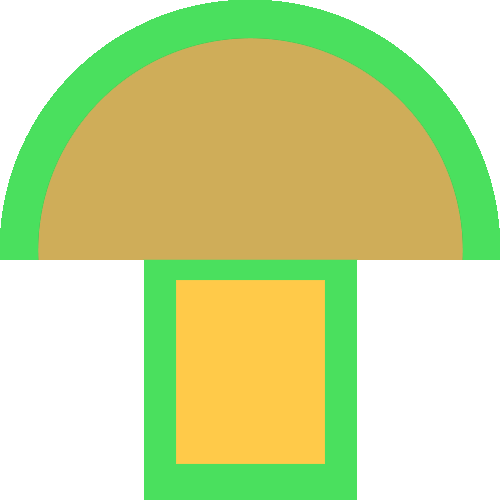
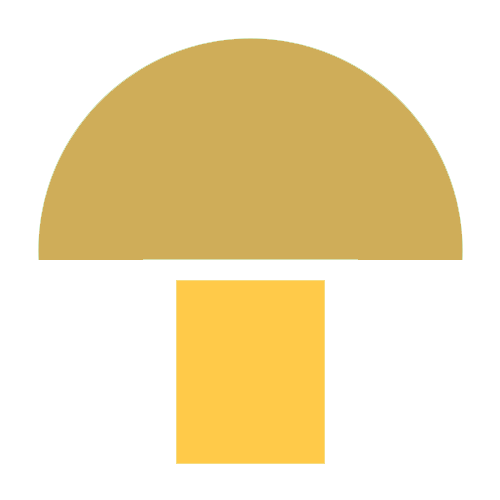
backup in case i cant get collisions to work

Changed region(s): [[0.0, 0.0, 1.0, 0.54], [0.27, 0.51, 0.72, 1.0]]

diff --git a/src/client/render.js b/src/client/render.js
@@ -247,7 +247,7 @@ function renderPlayer(me, player) {
 
   else if(player.tier <14){
     context.drawImage(
-      getAsset('devil croc.png'),
+      getAsset('slime.png'),
       -PLAYER_RADIUS * TIER_14_SIZE,
       -PLAYER_RADIUS * TIER_14_SIZE,
       PLAYER_RADIUS * 2 * TIER_14_SIZE,
@@ -356,6 +356,31 @@ function renderXPBar(me, player) {
 
 function renderBerry(me, berry) {
   const { x, y } = berry;
+
+  // Drawing the outline
+  var dArr = [-1,-1, 0,-1, 1,-1, -1,0, 1,0, -1,1, 0,1, 1,1], // offset array
+      s = 2,  // thickness scale
+      i = 0,  // iterator
+      finalX = x,  // final position
+      finalY = y;
+
+  for(; i < dArr.length; i += 2){
+    context.drawImage(
+      getAsset('berry outline.png'),
+      canvas.width / 2 + x - me.x - BERRY_RADIUS + dArr[i]*s,
+      canvas.height / 2 + y - me.y - BERRY_RADIUS + dArr[i+1]*s,
+      BERRY_RADIUS * 2,
+      BERRY_RADIUS * 2,
+    );
+  }
+  
+  // fill with color
+  /*context.globalCompositeOperation = "source-atop";
+  context.fillStyle = "red";
+  context.fillRect(0,0,canvas.width, canvas.height);*/
+  
+  //Drawing the original image
+  context.globalCompositeOperation = "source-over";
   context.drawImage(
     getAsset('berry.png'),
     canvas.width / 2 + x - me.x - BERRY_RADIUS,
@@ -378,6 +403,24 @@ function renderMelon(me, melon) {
 
 function renderMushroom(me, mushroom) {
   const { x, y } = mushroom;
+
+  // Drawing the outline
+  var dArr = [-1,0, 1,0, -1,1, 0,1, 1,1], // offset array
+    s = 2,  // thickness scale
+    i = 0,  // iterator
+    finalX = x,  // final position
+    finalY = y;
+
+  for(; i < dArr.length; i += 2){
+    context.drawImage(
+      getAsset('mushroom outline.png'),
+      canvas.width / 2 + x - me.x - MUSHROOM_RADIUS + dArr[i]*s,
+      canvas.height / 2 + y - me.y - MUSHROOM_RADIUS + dArr[i+1]*s,
+      MUSHROOM_RADIUS * 2,
+      MUSHROOM_RADIUS * 2,
+    );
+  }
+
   context.drawImage(
     getAsset('mushroom.png'),
     canvas.width / 2 + x - me.x - MUSHROOM_RADIUS,

diff --git a/src/client/assets.js b/src/client/assets.js
@@ -16,7 +16,7 @@ const ASSET_NAMES = [
   'mushroom bush.png',
   'watermelon.png',
   'mushroom.png',
-  'slime.png',
+  'old slime.png',
   'robo mouse.png',
   'rock.png',
   'panda uwu.png',
@@ -48,7 +48,11 @@ const ASSET_NAMES = [
   'kangaroo.png',
   'mammoth.png',
   'horse.png',
-  'party squirrel.png'
+  'party squirrel.png',
+  'slime.png',
+  'berry outline.png',
+  'mushroom outline.png',
+  'mushroom outline 2.png',
   //REMEBER TO ADD ALL ASSETS TO THIS :D
 ];
 

diff --git a/src/server/collisions.js b/src/server/collisions.js
@@ -199,7 +199,11 @@ function applyCollisions(players, otherObj, collisionType, deltaTime, playerTier
             destroyObject = false;
           }
         } else if (collisionType == 5){
-          player.giveMushroomXP();
+          if(player.tier >= 1){
+            player.giveMushroomXP();
+          } else{
+            destroyObject = false;
+          }
         } else if (collisionType == 6){
           if(player.tier >= 4){
             player.giveBlackberryXP();
